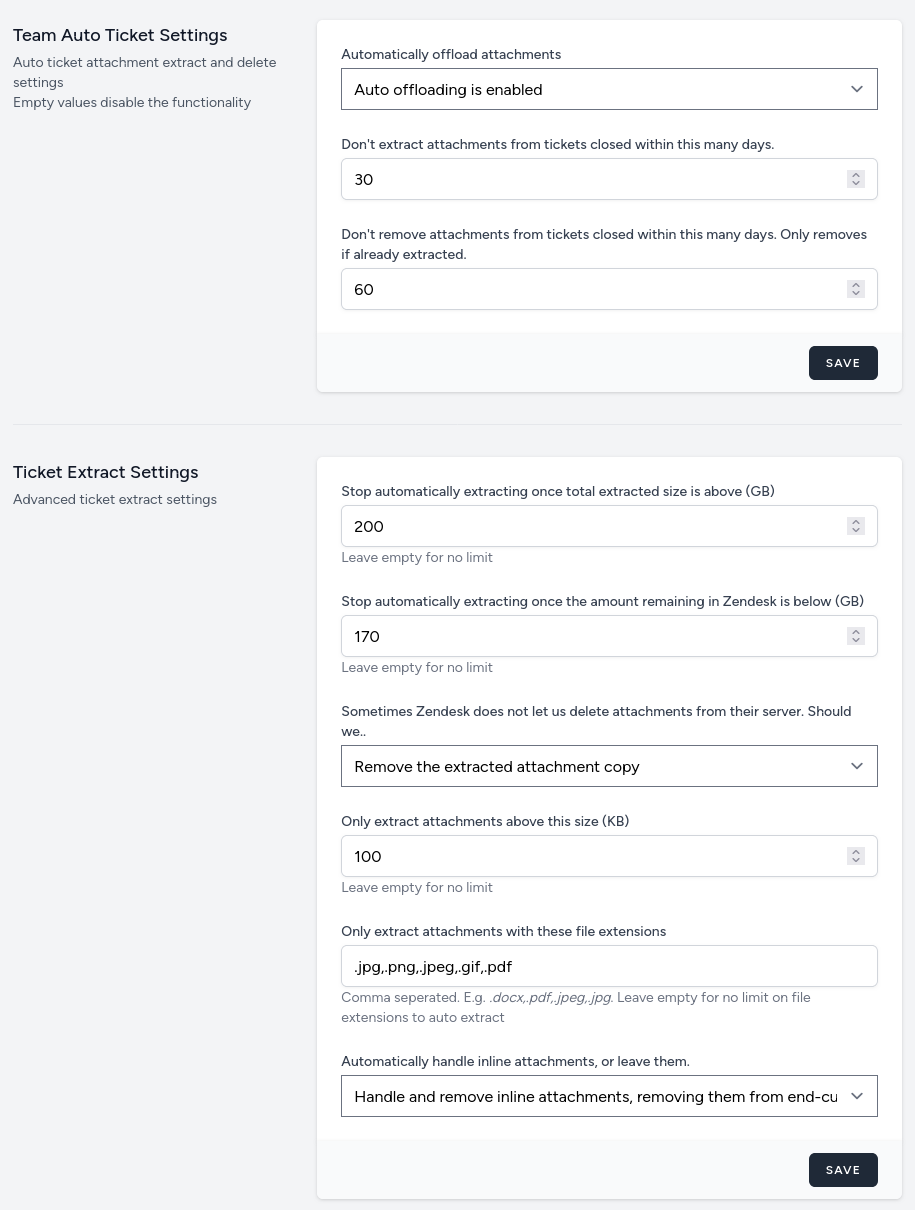
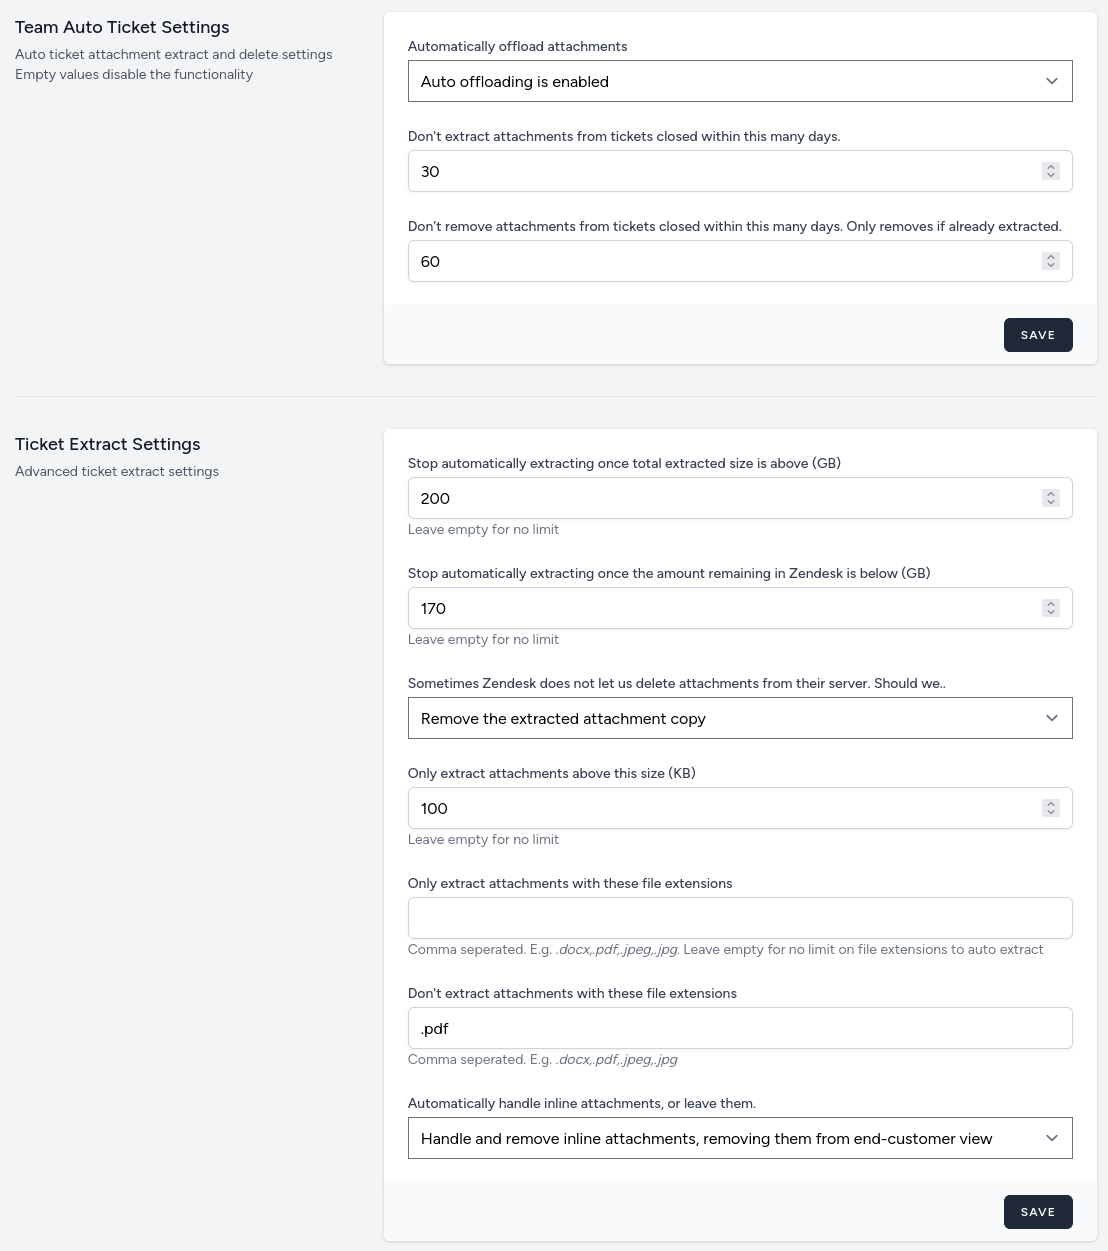
sharepoint & exclude attachments

diff --git a/docs/bring-your-own-storage/sharepoint-storage.md b/docs/bring-your-own-storage/sharepoint-storage.md
@@ -1,0 +1,93 @@
+---
+title: Microsoft Sharepoint Guide
+layout: default
+parent: Bring Your Own Storage (Hybrid)
+---
+# Microsoft Sharepoint
+{: .no_toc }
+
+1. TOC
+{:toc}
+
+## Microsoft Sharepoint Connection Setup
+
+After sign-up, select the Hybrid option and then the Microsoft Sharepoint provider.
+
+<picture>
+  <source srcset="{{ site.baseurl }}/assets/images/docs/bring-your-own-storage/select-provider.webp" type="image/webp">
+  <img src="{{ site.baseurl }}/assets/images/docs/bring-your-own-storage/select-provider.png" alt="Screenshot of the Hybrid provider selection">
+</picture>
+
+You'll be prompted to sign-in to your Microsoft Account and asked for permissions to read/write to your Sharepoint drive.
+
+Next provide your:
+- Sharepoint Drive ID
+
+_For setting these up, see [Finding Your Sharepoint Drive ID](#finding-your-sharepoint-drive-id) below_
+{: .fs-3 .text-grey-dk-000 }
+
+<picture>
+  <source srcset="{{ site.baseurl }}/assets/images/docs/bring-your-own-storage/sharepoint-storage/connection-details.webp" type="image/webp">
+  <img src="{{ site.baseurl }}/assets/images/docs/bring-your-own-storage/sharepoint-storage/connection-details.png" alt="Screenshot of the Sharepoint provider hybrid setup">
+</picture>
+
+'Save & Test' will attempt to write and read a file on the storage provider. Once tested, you will be asked to confirm the connection parameters.
+
+<picture>
+  <source srcset="{{ site.baseurl }}/assets/images/docs/bring-your-own-storage/sharepoint-storage/confirm.webp" type="image/webp">
+  <img src="{{ site.baseurl }}/assets/images/docs/bring-your-own-storage/sharepoint-storage/confirm.png" alt="Screenshot of the Sharepoint provider hybrid setup confirmation">
+</picture>
+
+The solution is now connected to your Microsoft Sharepoint.
+
+## Finding Your Sharepoint Drive ID
+
+Navigate to the Microsoft Graph Explorer <a href="https://developer.microsoft.com/en-us/graph/graph-explorer">https://developer.microsoft.com/en-us/graph/graph-explorer</a> and sign into your Microsoft account, the tenant should show your organisation (not 'Tenant Sample')
+
+<picture>
+  <source srcset="{{ site.baseurl }}/assets/images/docs/bring-your-own-storage/sharepoint-storage/graph-logged-in.webp" type="image/webp">
+  <img src="{{ site.baseurl }}/assets/images/docs/bring-your-own-storage/sharepoint-storage/graph-logged-in.png" alt="Screenshot of the Microsoft Graph Explorer signed in as a user">
+</picture>
+
+Run a query for `https://graph.microsoft.com/v1.0/sites/{sharepoint domain}:/sites/{site name}`
+
+For instance if your Sharepoint site lives at `https://eh7p.sharepoint.com/sites/ZendeskOffload/`, your query would be `https://graph.microsoft.com/v1.0/sites/eh7p.sharepoint.com:/sites/ZendeskOffload`
+
+<picture>
+  <source srcset="{{ site.baseurl }}/assets/images/docs/bring-your-own-storage/sharepoint-storage/graph-site.webp" type="image/webp">
+  <img src="{{ site.baseurl }}/assets/images/docs/bring-your-own-storage/sharepoint-storage/graph-site.png" alt="Screenshot of the Microsoft Graph Explorer showing a sharepoint site details">
+</picture>
+
+Run a query for `https://graph.microsoft.com/v1.0/sites/{site id}/drives`
+
+For instance if the ID from the previous query was `eh7p.sharepoint.com,70b4d76a-2caf-4b70-a054..................`, your query would be `https://graph.microsoft.com/v1.0/sites/eh7p.sharepoint.com,70b4d76a-2caf-4b70-a054................../drives`
+
+<picture>
+  <source srcset="{{ site.baseurl }}/assets/images/docs/bring-your-own-storage/sharepoint-storage/graph-drive.webp" type="image/webp">
+  <img src="{{ site.baseurl }}/assets/images/docs/bring-your-own-storage/sharepoint-storage/graph-drive.png" alt="Screenshot of the Microsoft Graph Explorer showing a sharepoint drive details">
+</picture>
+
+The ID shown here is the Drive ID, in this case `b!ate0cK8scEug.......................`.
+
+### Graph Explorer Permissions
+
+While using the Graph Explorer you may need to enable the `Sites.Read.All` permission.
+
+## Testing
+
+To test the solution, once the solution and hybrid connection is setup, navigate to the tickets view on the dashboard and select a ticket to extract the attachments for.
+
+<picture>
+  <source srcset="{{ site.baseurl }}/assets/images/docs/bring-your-own-storage/19-pre-extract.webp" type="image/webp">
+  <img src="{{ site.baseurl }}/assets/images/docs/bring-your-own-storage/19-pre-extract.png" alt="Screenshot of the Zendesk Storage Offload dashboard showing a ticket which has not yet been extracted">
+</picture>
+
+Now extract the ticket, the files will be shown within the Microsoft Sharepoint Documents
+
+<picture>
+  <source srcset="{{ site.baseurl }}/assets/images/docs/bring-your-own-storage/sharepoint-storage/extracted-attachments.webp" type="image/webp">
+  <img src="{{ site.baseurl }}/assets/images/docs/bring-your-own-storage/sharepoint-storage/extracted-attachments.png" alt="Screenshot of the Microsoft Sharepoint Bucket showing the extracted files">
+</picture>
+
+
+If you require an alternative file naming schema, please [get in touch]({% link docs/contact-us.md %})!

diff --git a/docs/bring-your-own-storage/index.md b/docs/bring-your-own-storage/index.md
@@ -14,6 +14,7 @@ We can also provide fully [on-premises solutions]({% link docs/on-premises.md %}
 We can support almost any cloud storage solution including:
 - [AWS S3]({% link docs/bring-your-own-storage/aws-s3-storage.md %})
 - [Azure Storage Containers]({% link docs/bring-your-own-storage/azure-storage.md %})
+- [Microsoft Sharepoint Storage]({% link docs/bring-your-own-storage/sharepoint-storage.md %})
 - [Google Cloud Storage]({% link docs/bring-your-own-storage/gcp-storage.md %})
 - Digital Ocean Spaces
 - Cloudflare R2 Storage

diff --git a/docs/limit-offload.md b/docs/limit-offload.md
@@ -35,7 +35,7 @@ Don't offload attachments which are smaller than a given size.
 
 ## Limit by attachment filetype
 
-Only extract attachments with the provided filetypes
+Only extract attachments with the provided filetypes, or don't extract attachments with given file extensions.
 
 ## Limit by inline atttachments
 
